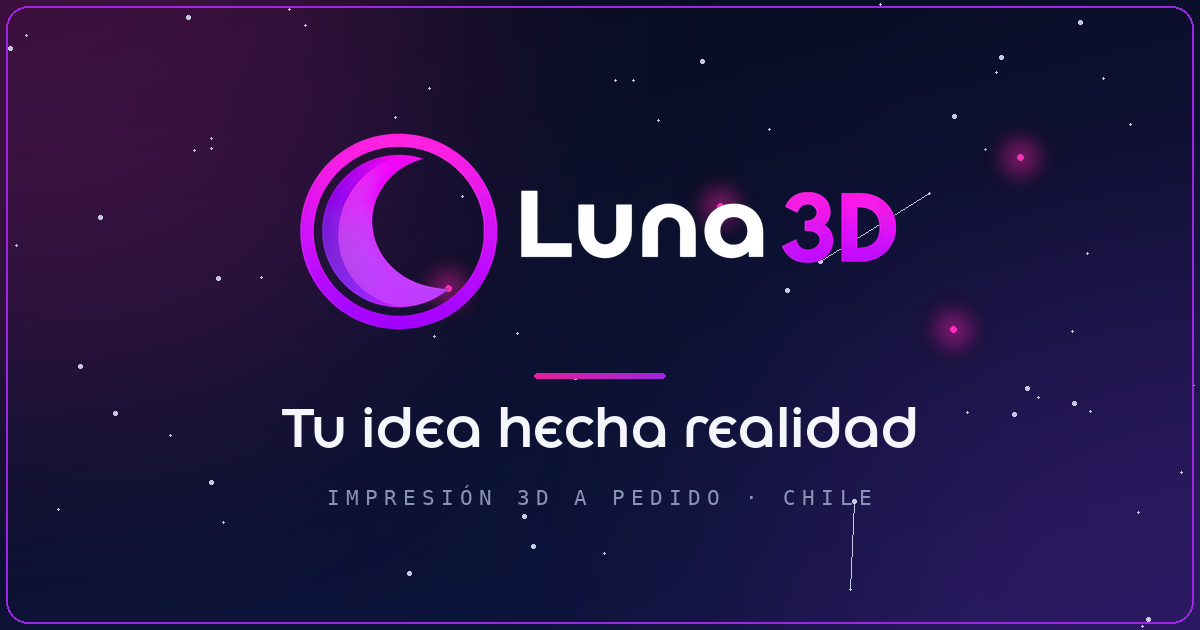
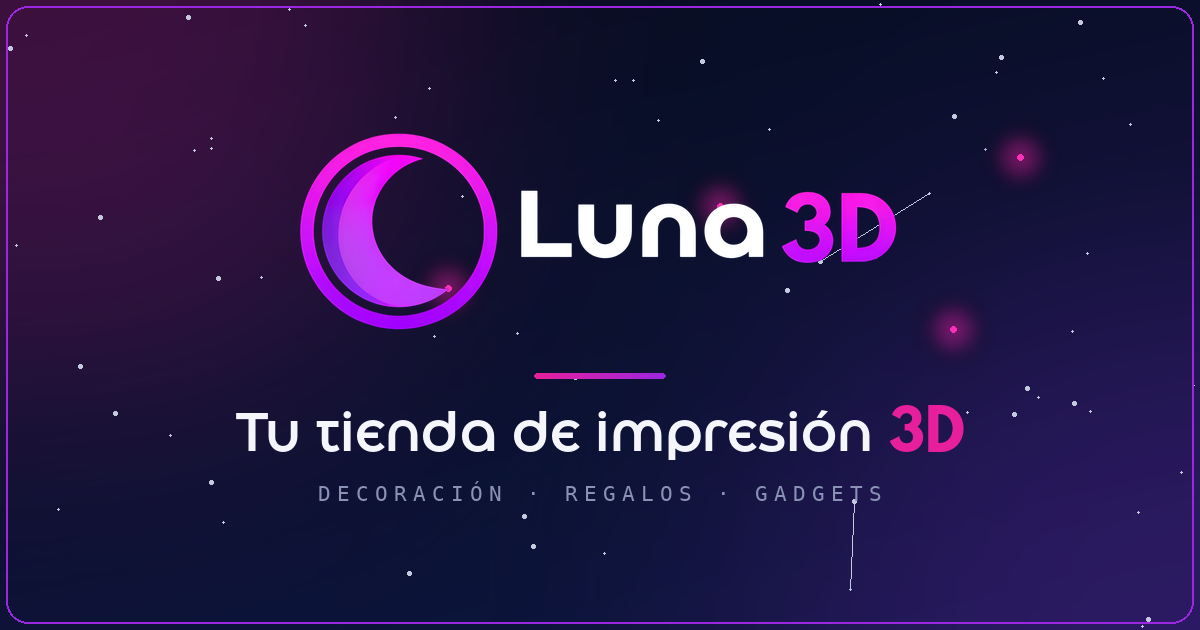
copy(marca): reposicionar a tienda de productos 3D
- Eslogan -> 'Tu tienda de impresión 3D' (title/og/twitter)
- og-card.png regenerada (3D en Hussar Bold, overline Decoracion/Regalos/Gadgets)
- Quitar 'a pedido' del copy de marketing (descripciones, hero, alt)
- Copia operativa de fabricacion se mantiene intacta

Changed region(s): [[0.185, 0.6333, 0.8017, 0.7238], [0.2775, 0.754, 0.5858, 0.8143], [0.6475, 0.754, 0.74, 0.8143]]

diff --git a/index.html b/index.html
@@ -3,7 +3,7 @@
 <head>
 <meta charset="UTF-8">
 <meta name="viewport" content="width=device-width, initial-scale=1.0">
-<title>Luna3D — Tu idea hecha realidad</title>
+<title>Luna3D — Tu tienda de impresión 3D</title>
 <meta name="description" content="Luna 3D — fabricación de piezas hiper-optimizadas con impresión 3D. Decoración, regalos, gadgets y diseños personalizados con calidad crepuscular y alta ingeniería.">
 <link rel="preconnect" href="https://fonts.googleapis.com">
 <link rel="preconnect" href="https://fonts.gstatic.com" crossorigin>
@@ -23,16 +23,16 @@
 <meta property="og:type" content="website">
 <meta property="og:site_name" content="Luna 3D">
 <meta property="og:locale" content="es_CL">
-<meta property="og:title" content="Luna 3D — Tu idea hecha realidad">
-<meta property="og:description" content="Piezas impresas en 3D a pedido en Chile: decoración, regalos, maceteros y coleccionables con acabado premium.">
+<meta property="og:title" content="Luna 3D — Tu tienda de impresión 3D">
+<meta property="og:description" content="Piezas impresas en 3D en Chile: decoración, regalos, maceteros y coleccionables con acabado premium.">
 <meta property="og:url" content="https://luna3d.cl/">
 <meta property="og:image" content="https://luna3d.cl/assets/og-card.png">
 <meta property="og:image:width" content="1200">
 <meta property="og:image:height" content="630">
-<meta property="og:image:alt" content="Luna 3D — Tu idea hecha realidad. Impresión 3D a pedido en Chile.">
+<meta property="og:image:alt" content="Luna 3D — Tu tienda de impresión 3D en Chile.">
 <meta name="twitter:card" content="summary_large_image">
-<meta name="twitter:title" content="Luna 3D — Tu idea hecha realidad">
-<meta name="twitter:description" content="Piezas impresas en 3D a pedido en Chile: decoración, regalos, maceteros y coleccionables con acabado premium.">
+<meta name="twitter:title" content="Luna 3D — Tu tienda de impresión 3D">
+<meta name="twitter:description" content="Piezas impresas en 3D en Chile: decoración, regalos, maceteros y coleccionables con acabado premium.">
 <meta name="twitter:image" content="https://luna3d.cl/assets/og-card.png">
 </head>
 <body>
@@ -83,7 +83,7 @@
 
         <article class="l3d-card">
           <a class="l3d-poster" href="catalogo.html#categorias" aria-label="¿Buscas un regalo?">
-            <img src="assets/promo-gift-poster.png" alt="¿Buscas un regalo? Un detalle único impreso a pedido">
+            <img src="assets/promo-gift-poster.png" alt="¿Buscas un regalo? Un detalle único impreso">
           </a>
           <div class="l3d-mini" data-set="gift"></div>
         </article>
@@ -133,7 +133,7 @@
         <div class="cat-hero-left">
           <span class="kicker">Categorías</span>
           <h2 class="section-title">Encuentra<br>tu producto</h2>
-          <p>Impresiones 3D a pedido en Chile. Elige la categoría que más te representa.</p>
+          <p>Impresiones 3D en Chile. Elige la categoría que más te representa.</p>
           <a class="btn primary" href="catalogo.html">Explorar catálogo</a>
         </div>
         <div class="cat-grid" id="cat-grid"></div>

diff --git a/catalogo.html b/catalogo.html
@@ -4,7 +4,7 @@
 <meta charset="UTF-8">
 <meta name="viewport" content="width=device-width, initial-scale=1.0">
 <title>Catálogo — Luna3D</title>
-<meta name="description" content="Explora el catálogo de Luna 3D: piezas impresas en 3D a pedido en Chile — maceteros, decoración, llaveros, cultura pop y organización. Filtra por categoría, precio y colección.">
+<meta name="description" content="Explora el catálogo de Luna 3D: piezas impresas en 3D en Chile — maceteros, decoración, llaveros, cultura pop y organización. Filtra por categoría, precio y colección.">
 <link rel="preconnect" href="https://fonts.googleapis.com">
 <link rel="preconnect" href="https://fonts.gstatic.com" crossorigin>
 <link href="https://fonts.googleapis.com/css2?family=Space+Grotesk:wght@400;500;600;700&family=Manrope:wght@400;500;600;700;800&family=Space+Mono:wght@400;700&display=swap" rel="stylesheet">
@@ -23,15 +23,15 @@
 <meta property="og:site_name" content="Luna 3D">
 <meta property="og:locale" content="es_CL">
 <meta property="og:title" content="Catálogo — Luna 3D">
-<meta property="og:description" content="Piezas impresas en 3D a pedido en Chile: maceteros, decoración, llaveros, cultura pop y organización. Filtra por categoría, precio y colección.">
+<meta property="og:description" content="Piezas impresas en 3D en Chile: maceteros, decoración, llaveros, cultura pop y organización. Filtra por categoría, precio y colección.">
 <meta property="og:url" content="https://luna3d.cl/catalogo.html">
 <meta property="og:image" content="https://luna3d.cl/assets/og-card.png">
 <meta property="og:image:width" content="1200">
 <meta property="og:image:height" content="630">
-<meta property="og:image:alt" content="Luna 3D — Tu idea hecha realidad. Impresión 3D a pedido en Chile.">
+<meta property="og:image:alt" content="Luna 3D — Tu tienda de impresión 3D en Chile.">
 <meta name="twitter:card" content="summary_large_image">
 <meta name="twitter:title" content="Catálogo — Luna 3D">
-<meta name="twitter:description" content="Piezas impresas en 3D a pedido en Chile: maceteros, decoración, llaveros, cultura pop y organización. Filtra por categoría, precio y colección.">
+<meta name="twitter:description" content="Piezas impresas en 3D en Chile: maceteros, decoración, llaveros, cultura pop y organización. Filtra por categoría, precio y colección.">
 <meta name="twitter:image" content="https://luna3d.cl/assets/og-card.png">
 </head>
 <body>

diff --git a/producto.html b/producto.html
@@ -4,7 +4,7 @@
 <meta charset="UTF-8">
 <meta name="viewport" content="width=device-width, initial-scale=1.0">
 <title>Producto — Luna3D</title>
-<meta name="description" content="Detalle de producto Luna 3D: pieza impresa en 3D a pedido en Chile, con acabado premium. Elige color y cantidad, y pide por WhatsApp.">
+<meta name="description" content="Detalle de producto Luna 3D: pieza impresa en 3D en Chile, con acabado premium. Elige color y cantidad, y pide por WhatsApp.">
 <link rel="preconnect" href="https://fonts.googleapis.com">
 <link rel="preconnect" href="https://fonts.gstatic.com" crossorigin>
 <link href="https://fonts.googleapis.com/css2?family=Space+Grotesk:wght@400;500;600;700&family=Manrope:wght@400;500;600;700;800&family=Space+Mono:wght@400;700&display=swap" rel="stylesheet">
@@ -23,15 +23,15 @@
 <meta property="og:site_name" content="Luna 3D">
 <meta property="og:locale" content="es_CL">
 <meta property="og:title" content="Producto — Luna 3D">
-<meta property="og:description" content="Pieza impresa en 3D a pedido en Chile, con acabado premium. Elige color y cantidad, y pide por WhatsApp.">
+<meta property="og:description" content="Pieza impresa en 3D en Chile, con acabado premium. Elige color y cantidad, y pide por WhatsApp.">
 <meta property="og:url" content="https://luna3d.cl/producto.html">
 <meta property="og:image" content="https://luna3d.cl/assets/og-card.png">
 <meta property="og:image:width" content="1200">
 <meta property="og:image:height" content="630">
-<meta property="og:image:alt" content="Luna 3D — Tu idea hecha realidad. Impresión 3D a pedido en Chile.">
+<meta property="og:image:alt" content="Luna 3D — Tu tienda de impresión 3D en Chile.">
 <meta name="twitter:card" content="summary_large_image">
 <meta name="twitter:title" content="Producto — Luna 3D">
-<meta name="twitter:description" content="Pieza impresa en 3D a pedido en Chile, con acabado premium. Elige color y cantidad, y pide por WhatsApp.">
+<meta name="twitter:description" content="Pieza impresa en 3D en Chile, con acabado premium. Elige color y cantidad, y pide por WhatsApp.">
 <meta name="twitter:image" content="https://luna3d.cl/assets/og-card.png">
 </head>
 <body>